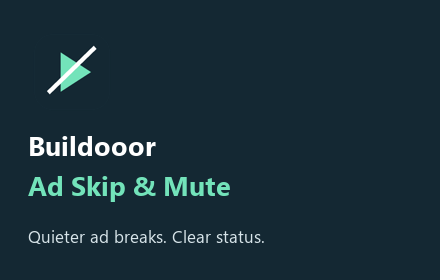
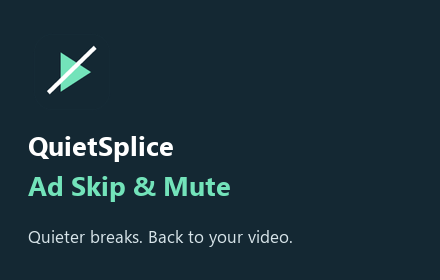
Brand release as QuietSplice and configure GitHub support and privacy links

Changed region(s): [[0.0591, 0.4857, 0.4136, 0.5714], [0.2068, 0.8286, 0.6795, 0.8857]]

diff --git a/tests/browser-check.html b/tests/browser-check.html
@@ -1,6 +1,6 @@
-<!doctype html><html lang="en"><meta charset="utf-8"><title>Buildooor — Ad muted demo</title><style>
+<!doctype html><html lang="en"><meta charset="utf-8"><title>QuietSplice — Ad muted demo</title><style>
 *{box-sizing:border-box}body{margin:0;background:#0c151c;color:#edf4f6;font:18px system-ui;padding:45px 56px}header{display:flex;align-items:center;gap:15px}header img{width:48px;height:48px}h1{font-size:25px;margin:0}header span{margin-left:auto;color:#a6bbc6;font-size:14px}main{margin-top:30px;display:grid;grid-template-columns:2fr 1fr;gap:30px}.html5-video-player{position:relative;height:430px;border-radius:18px;background:linear-gradient(135deg,#224953,#152935);overflow:hidden}video{position:absolute;width:100%;height:100%;pointer-events:none}.scene{position:absolute;inset:0;display:grid;place-content:center;text-align:center;pointer-events:none}.scene strong{font-size:55px;color:#73e3ba}.scene p{color:#bad0d8}.label{position:absolute;top:22px;left:24px;font-size:14px;color:#f8d77f}aside{padding:30px 0}aside h2{font-size:31px;line-height:1.2;margin-top:8px}aside p{color:#b4c7cf;line-height:1.6}.pill{color:#73e3ba;font-size:14px;letter-spacing:2px}footer{margin-top:32px;color:#9cb3c0;font-size:14px}#result{font-size:14px}</style>
-<header><img src="../icons/icon-128.png" alt=""><h1>Buildooor Ad Skip &amp; Mute</h1><span>Desktop browser extension</span></header>
+<header><img src="../icons/icon-128.png" alt=""><h1>QuietSplice Ad Skip &amp; Mute</h1><span>Desktop browser extension</span></header>
 <main><section class="html5-video-player ad-showing"><video></video><div class="scene"><strong>Quieter breaks.</strong><p>Your volume stays the same.</p></div><div class="label">AD BREAK · DEMONSTRATION</div></section><aside><div class="pill">CLEAR STATUS</div><h2>Know when<br>audio is muted.</h2><p>The badge stays visible throughout a detected ad break. Audio returns to its previous mute state afterward.</p><p>Supported sites:<br>YouTube · HBO Max / Max</p></aside></main><footer>Simulated player demo using the extension’s actual status script. Not a screenshot of YouTube or HBO Max.</footer><div id="result"></div>
 <script>(() => {
   "use strict";
@@ -37,7 +37,7 @@
       if (voice) {
         message.voice = voice;
         try { speechSynthesis.speak(message); }
-        catch (error) { console.warn("[Buildooor] Speech unavailable:", String(error.message || error)); }
+        catch (error) { console.warn("[QuietSplice] Speech unavailable:", String(error.message || error)); }
       }
     }
   }

diff --git a/tests/browser-demo.html b/tests/browser-demo.html
@@ -1,6 +1,6 @@
-<!doctype html><html lang="en"><meta charset="utf-8"><title>Buildooor — Ad muted demo</title><style>
+<!doctype html><html lang="en"><meta charset="utf-8"><title>QuietSplice — Ad muted demo</title><style>
 *{box-sizing:border-box}body{margin:0;background:#0c151c;color:#edf4f6;font:18px system-ui;padding:45px 56px}header{display:flex;align-items:center;gap:15px}header img{width:48px;height:48px}h1{font-size:25px;margin:0}header span{margin-left:auto;color:#a6bbc6;font-size:14px}main{margin-top:30px;display:grid;grid-template-columns:2fr 1fr;gap:30px}.html5-video-player{position:relative;height:430px;border-radius:18px;background:linear-gradient(135deg,#224953,#152935);overflow:hidden}video{position:absolute;width:100%;height:100%;pointer-events:none}.scene{position:absolute;inset:0;display:grid;place-content:center;text-align:center;pointer-events:none}.scene strong{font-size:55px;color:#73e3ba}.scene p{color:#bad0d8}.label{position:absolute;top:22px;left:24px;font-size:14px;color:#f8d77f}aside{padding:30px 0}aside h2{font-size:31px;line-height:1.2;margin-top:8px}aside p{color:#b4c7cf;line-height:1.6}.pill{color:#73e3ba;font-size:14px;letter-spacing:2px}footer{margin-top:32px;color:#9cb3c0;font-size:14px}#result{font-size:14px}</style>
-<header><img src="../icons/icon-128.png" alt=""><h1>Buildooor Ad Skip &amp; Mute</h1><span>Desktop browser extension</span></header>
+<header><img src="../icons/icon-128.png" alt=""><h1>QuietSplice Ad Skip &amp; Mute</h1><span>Desktop browser extension</span></header>
 <main><section class="html5-video-player ad-showing"><video></video><div class="scene"><strong>Quieter breaks.</strong><p>Your volume stays the same.</p></div><div class="label">AD BREAK · DEMONSTRATION</div></section><aside><div class="pill">CLEAR STATUS</div><h2>Know when<br>audio is muted.</h2><p>The badge stays visible throughout a detected ad break. Audio returns to its previous mute state afterward.</p><p>Supported sites:<br>YouTube · HBO Max / Max</p></aside></main><footer>Simulated player demo using the extension’s actual status script. Not a screenshot of YouTube or HBO Max.</footer><div id="result"></div>
 <script>(() => {
   "use strict";
@@ -37,7 +37,7 @@
       if (voice) {
         message.voice = voice;
         try { speechSynthesis.speak(message); }
-        catch (error) { console.warn("[Buildooor] Speech unavailable:", String(error.message || error)); }
+        catch (error) { console.warn("[QuietSplice] Speech unavailable:", String(error.message || error)); }
       }
     }
   }

diff --git a/background.js b/background.js
@@ -66,14 +66,14 @@ async function clickSkip(tabId) {
   } finally {
     if (attached) {
       try { await chrome.debugger.detach(target); }
-      catch (error) { console.warn("[Buildooor] Debugger cleanup:", String(error.message || error)); }
+      catch (error) { console.warn("[QuietSplice] Debugger cleanup:", String(error.message || error)); }
     }
   }
   return outcome;
 }
 
 chrome.runtime.onMessage.addListener((message, sender, respond) => {
-  if (message?.type !== "buildooor-skip") return;
+  if (message?.type !== "quietsplice-skip") return;
   // No arbitrary coordinates or CDP commands are accepted from content scripts.
   if (sender.id !== chrome.runtime.id || sender.frameId !== 0 || !sender.tab || !Number.isInteger(sender.tab.id) || sender.tab.id < 0 ||
       !/^https:\/\/www\.youtube\.com\//.test(sender.url || "")) {

diff --git a/content.js b/content.js
@@ -14,7 +14,7 @@
   function status(message) {
     if (message === lastStatus) return;
     lastStatus = message;
-    console.info("[Buildooor auto-skip] " + message);
+    console.info("[QuietSplice auto-skip] " + message);
   }
 
   function skipAvailableAd() {
@@ -39,7 +39,7 @@
       lastClick.set(button, now);
       if (requesting) break;
       requesting = true;
-      chrome.runtime.sendMessage({type: "buildooor-skip"}, response => {
+      chrome.runtime.sendMessage({type: "quietsplice-skip"}, response => {
         requesting = false;
         const error = chrome.runtime.lastError;
         if (error) { retryAfter = performance.now() + 30000; status("Skip failed: " + error.message); return; }

diff --git a/ad-audio.js b/ad-audio.js
@@ -33,7 +33,7 @@
       if (voice) {
         message.voice = voice;
         try { speechSynthesis.speak(message); }
-        catch (error) { console.warn("[Buildooor] Speech unavailable:", String(error.message || error)); }
+        catch (error) { console.warn("[QuietSplice] Speech unavailable:", String(error.message || error)); }
       }
     }
   }

diff --git a/hbo-intro.js b/hbo-intro.js
@@ -17,7 +17,7 @@
       if (now - (lastClick.get(button) ?? -Infinity) < 2000) continue;
       lastClick.set(button, now);
       button.click();
-      console.info("[Buildooor HBO] Skip Intro click attempted.");
+      console.info("[QuietSplice HBO] Skip Intro click attempted.");
       break;
     }
   }

diff --git a/scripts/package_release.py b/scripts/package_release.py
@@ -10,14 +10,15 @@ FILES = ["manifest.json", "background.js", "content.js", "ad-audio.js", "hbo-int
          "icons/icon-16.png", "icons/icon-32.png", "icons/icon-48.png", "icons/icon-128.png"]
 SECRET = re.compile(r"-----BEGIN (?:RSA |EC |OPENSSH )?PRIVATE KEY-----|gh[pousr]_[A-Za-z0-9]{30,}|github_pat_[A-Za-z0-9_]{30,}|AKIA[A-Z0-9]{16}|sk-[A-Za-z0-9]{32,}")
 
-def build():
+def build(minimal=False):
+    files = [name for name in FILES if not minimal or name != "PRIVACY.md"]
     manifest = json.loads((ROOT / "manifest.json").read_text(encoding="utf-8"))
     required = {"manifest.json", manifest["background"]["service_worker"], *manifest["icons"].values()}
     for entry in manifest["content_scripts"]:
         required.update(entry["js"])
-    if not required.issubset(FILES):
+    if not required.issubset(files):
         raise ValueError("Manifest references files outside the release allowlist")
-    for name in FILES:
+    for name in files:
         path = ROOT / name
         path.resolve().relative_to(ROOT)
         if path.is_symlink() or not path.is_file():
@@ -26,26 +27,30 @@ def build():
             raise ValueError(f"Possible secret in {name}")
     destination = ROOT / "dist"
     destination.mkdir(exist_ok=True)
-    archive = destination / f"buildooor-{manifest['version']}.zip"
+    suffix = "-unpacked" if minimal else ""
+    archive = destination / f"quietsplice-{manifest['version']}{suffix}.zip"
     with zipfile.ZipFile(archive, "w", compression=zipfile.ZIP_DEFLATED) as bundle:
-        for name in FILES:
+        for name in files:
             info = zipfile.ZipInfo(name, date_time=(2026, 11, 9, 0, 0, 0))
             info.compress_type = zipfile.ZIP_DEFLATED
             info.external_attr = 0o644 << 16
             bundle.writestr(info, (ROOT / name).read_bytes())
     with zipfile.ZipFile(archive) as bundle:
-        if bundle.namelist() != FILES or bundle.testzip() is not None:
+        if bundle.namelist() != files or bundle.testzip() is not None:
             raise ValueError("Archive verification failed")
-        for name in FILES:
+        for name in files:
             if bundle.read(name) != (ROOT / name).read_bytes():
                 raise ValueError(f"Archive/source mismatch: {name}")
     digest = hashlib.sha256(archive.read_bytes()).hexdigest()
     (archive.with_suffix(".zip.sha256")).write_text(f"{digest}  {archive.name}\n", encoding="utf-8")
     print(f"Archive: {archive.name}")
-    print("\n".join(FILES))
+    print("\n".join(files))
     print(f"SHA256: {digest}")
     print("PASS: allowlist, manifest references, secret scan, CRC and source bytes verified.")
     return archive
 
 if __name__ == "__main__":
-    build()
+    import argparse
+    parser = argparse.ArgumentParser(description=__doc__)
+    parser.add_argument("--minimal", action="store_true", help="Omit privacy document for unpacked testing")
+    build(parser.parse_args().minimal)

diff --git a/README.md b/README.md
@@ -1,4 +1,4 @@
-# Buildooor Ad Skip & Mute
+# QuietSplice Ad Skip & Mute
 
 A dependency-free desktop Chrome/Edge extension for quieter ad breaks on **YouTube and HBO Max / Max**.
 
@@ -24,16 +24,22 @@ Site access is limited to YouTube and HBO Max/Max domains. Hulu, Rumble, Disney+
 
 The extension mutes the video element, not Chrome or your PC. YouTube's own speaker icon may not update. A 1.2-second grace interval prevents unmuting between consecutive ads. Existing mute settings and volume are preserved. Refreshing or disabling the extension mid-ad may require manually unmuting the player. Site changes, hidden ad indicators, and browser timer throttling can affect behavior. Native mobile/TV apps are not supported.
 
-The user confirmed YouTube and HBO primary flows during development. Release hardening has automated regression coverage. Final version 1.3.1 live-service smoke testing remains pending; see [release checklist](store/RELEASE-CHECKLIST.md).
+The user confirmed YouTube and HBO primary flows during development. Release hardening has automated regression coverage. Final version 1.3.2 live-service smoke testing remains pending; see [release checklist](store/RELEASE-CHECKLIST.md).
 
 ## Develop and package
 
-Node.js 22+ runs `npm test` (no npm install needed). Python 3.10+ standard library runs `python scripts/package_release.py`. The packaging script uses a fixed allowlist, validates manifest paths, scans packaged text for common secret patterns, writes dist/buildooor-1.3.1.zip and SHA-256, and lists every archive member. Generated dist files are ignored by Git. Icons were created using existing Pillow tooling; Pillow is not a runtime or packaging dependency.
+Node.js 22+ runs `npm test` (no npm install needed). Python 3.10+ standard library runs `python scripts/package_release.py`. Add `--minimal` for a runtime-only unpacked-test ZIP. The packaging script uses a fixed allowlist, validates manifest paths, scans packaged text for common secret patterns, writes dist/quietsplice-1.3.2.zip and SHA-256, and lists every archive member. Generated dist files are ignored by Git. Icons were created using existing Pillow tooling; Pillow is not a runtime or packaging dependency.
 
 The source repository includes tests, a clearly labelled standalone demo page, store assets, and submission copy. The release ZIP contains runtime files and the privacy policy only. No source-code license has been selected; choose one before describing a public repository as open source.
 
-## Release 1.3.1
+## Release 1.3.2
 
 Restrict site access to confirmed services; validate page origin and coordinates before YouTube input; back off after debugger failures; restore detached videos and remove notices on page exit; use only local English speech voices; add icons, release verification, and store materials.
 
 Independent project; not affiliated with YouTube, Google, HBO Max, or Warner Bros. Discovery.
+
+## Project and support
+
+[Source repository](https://github.com/abhbasu7/quietsplice) · [Report an issue](https://github.com/abhbasu7/quietsplice/issues) · [Public privacy policy](https://github.com/abhbasu7/quietsplice/blob/main/PRIVACY.md)
+
+Public links require main to be pushed. No Chrome Web Store submission has been made.

diff --git a/store/REVIEW.md b/store/REVIEW.md
@@ -1,4 +1,4 @@
-# Release review — 1.3.1
+# Release review — 1.3.2
 
 Reviewed runtime: manifest.json, background.js, content.js, ad-audio.js, hbo-intro.js and their tests. The loaded project E:/repos/ad-skip is the release repository. The earlier E:/repos/buildooor copy is not the commit or release target.
 
@@ -19,6 +19,8 @@ Archive listing/hash and allowlist/secret/CRC/source-byte checks: archive-conten
 
 ## Remaining publication gates
 
-The user's earlier YouTube and HBO live confirmations are recorded. Final hardened 1.3.1 live-service behavior, fullscreen on each real service, and trusted debugger input on the final build were not reverified because interactive browser tooling was unavailable. Synthetic/DOM/CDP mocks are labelled as such. Run the manual acceptance checklist before submission.
+The user's earlier YouTube and HBO live confirmations are recorded. Final hardened 1.3.2 live-service behavior, fullscreen on each real service, and trusted debugger input on the final build were not reverified because interactive browser tooling was unavailable. Synthetic/DOM/CDP mocks are labelled as such. Run the manual acceptance checklist before submission.
 
-Publisher must supply live support and privacy-policy URLs, complete truthful dashboard disclosures, review images/listing, and approve submission. No credentials, dummy URLs, or runtime placeholders are packaged. Source-code license selection remains the publisher's choice. No remote push, public publication, or store submission was performed.
+Repository supplied: https://github.com/abhbasu7/quietsplice. Support and privacy URLs are configured; verify them publicly after pushing. Publisher must complete truthful dashboard disclosures, review images/listing, and approve submission. No credentials, dummy URLs, or runtime placeholders are packaged. Source-code license selection remains the publisher's choice. No remote push, public publication, or store submission was performed.
+
+Branding finalized as QuietSplice in 1.3.2; internal message names, metadata, images and archive names aligned. Runtime behavior remains the hardened 1.3.1 implementation.

diff --git a/store/REVIEWER-NOTES.md b/store/REVIEWER-NOTES.md
@@ -1,6 +1,6 @@
 # Reviewer notes
 
-Buildooor 1.3.1 is a Manifest V3 desktop extension with no runtime dependencies or remotely hosted code. Its scope is YouTube and HBO Max/Max only.
+QuietSplice 1.3.2 is a Manifest V3 desktop extension with no runtime dependencies or remotely hosted code. Its scope is YouTube and HBO Max/Max only.
 
 YouTube: visit www.youtube.com, start an ad-supported video, and wait for a skippable ad. Ad inventory varies; a Skip control is not guaranteed on each play. The extension mutes detected ad playback and activates only the visible enabled Skip control. Already-muted playback remains muted. The badge persists until the ad ends plus a 1.2-second grace interval.
 
@@ -10,4 +10,4 @@ Close DevTools on the YouTube tab during skip testing. Chrome may display a debu
 
 Speech requires a local English system voice and may require interaction with the page. It is optional feedback; text and muting work without it. The extension does not collect, persist, or send user data. The source identifier returned by validation is held only during an attempt and is not logged or stored.
 
-Automated Node tests and a standalone browser fixture cover local logic. User confirmed working YouTube and HBO primary flows before release hardening. Final 1.3.1 real-service smoke testing remains a publisher release gate. Store screenshots show the real badge script running in a clearly labelled simulated player, not a live HBO or YouTube session.
+Automated Node tests and a standalone browser fixture cover local logic. User confirmed working YouTube and HBO primary flows before release hardening. Final 1.3.2 real-service smoke testing remains a publisher release gate. Store screenshots show the real badge script running in a clearly labelled simulated player, not a live HBO or YouTube session.

diff --git a/store/LISTING.md b/store/LISTING.md
@@ -1,6 +1,6 @@
 # Chrome Web Store submission copy
 
-Name: Buildooor Ad Skip & Mute
+Name: QuietSplice — Ad Skip & Mute
 Category suggestion: Accessibility (publisher must select the appropriate current dashboard category).
 Language: English.
 Visibility: Public after publisher approval.
@@ -10,7 +10,7 @@ Short description: Skip available YouTube ads, mute detected YouTube and HBO Max
 
 Make ad breaks quieter on YouTube and HBO Max in your desktop browser.
 
-Buildooor mutes detected ad videos and displays a small Ad muted badge throughout the break. When the ad ends, it restores the previous mute state and displays Unmuting. Your volume setting stays unchanged; videos you already muted stay muted.
+QuietSplice mutes detected ad videos and displays a small Ad muted badge throughout the break. When the ad ends, it restores the previous mute state and displays Unmuting. Your volume setting stays unchanged; videos you already muted stay muted.
 
 On YouTube, it activates the official Skip button once that control is visible and enabled. On HBO Max / Max, it also clicks the visible Skip Intro button. It does not skip HBO commercial breaks.
 
@@ -41,4 +41,7 @@ No user data is collected/transmitted to the developer. The extension processes 
 
 ## Required publisher fields
 
-Enter the actual public support URL and hosted privacy-policy URL. These are not present in manifest.json because the GitHub repository is not yet specified. Do not submit until both links are live and accessible while signed out.
+Support URL: https://github.com/abhbasu7/quietsplice/issues
+Privacy policy URL: https://github.com/abhbasu7/quietsplice/blob/main/PRIVACY.md
+Homepage: https://github.com/abhbasu7/quietsplice
+Verify all links while signed out after pushing main and before submitting the store listing.

diff --git a/PRIVACY.md b/PRIVACY.md
@@ -1,8 +1,8 @@
-# Privacy policy — Buildooor Ad Skip & Mute
+# Privacy policy — QuietSplice Ad Skip & Mute
 
-Effective date: November 9, 2026. Applies to version 1.3.1.
+Effective date: November 10, 2026. Applies to version 1.3.2.
 
-Buildooor runs locally in desktop Chrome/Edge on YouTube and HBO Max/Max pages. It detects player controls and ad labels, mutes detected ad videos, shows status notices, and can activate YouTube Skip and HBO Skip Intro controls.
+QuietSplice runs locally in desktop Chrome/Edge on YouTube and HBO Max/Max pages. It detects player controls and ad labels, mutes detected ad videos, shows status notices, and can activate YouTube Skip and HBO Skip Intro controls.
 
 ## Data use
 
@@ -24,4 +24,4 @@ YouTube and HBO Max remain governed by their own privacy policies; this extensio
 
 ## Contact and changes
 
-Use the support link on the extension's Chrome Web Store listing to contact the publisher. This policy must be hosted at the URL supplied in that listing. Material changes will be reflected in this document and the store disclosures before release.
+Contact the publisher through [GitHub Issues](https://github.com/abhbasu7/quietsplice/issues). The public policy is [PRIVACY.md](https://github.com/abhbasu7/quietsplice/blob/main/PRIVACY.md). Material changes will be reflected in this document and the store disclosures before release.
